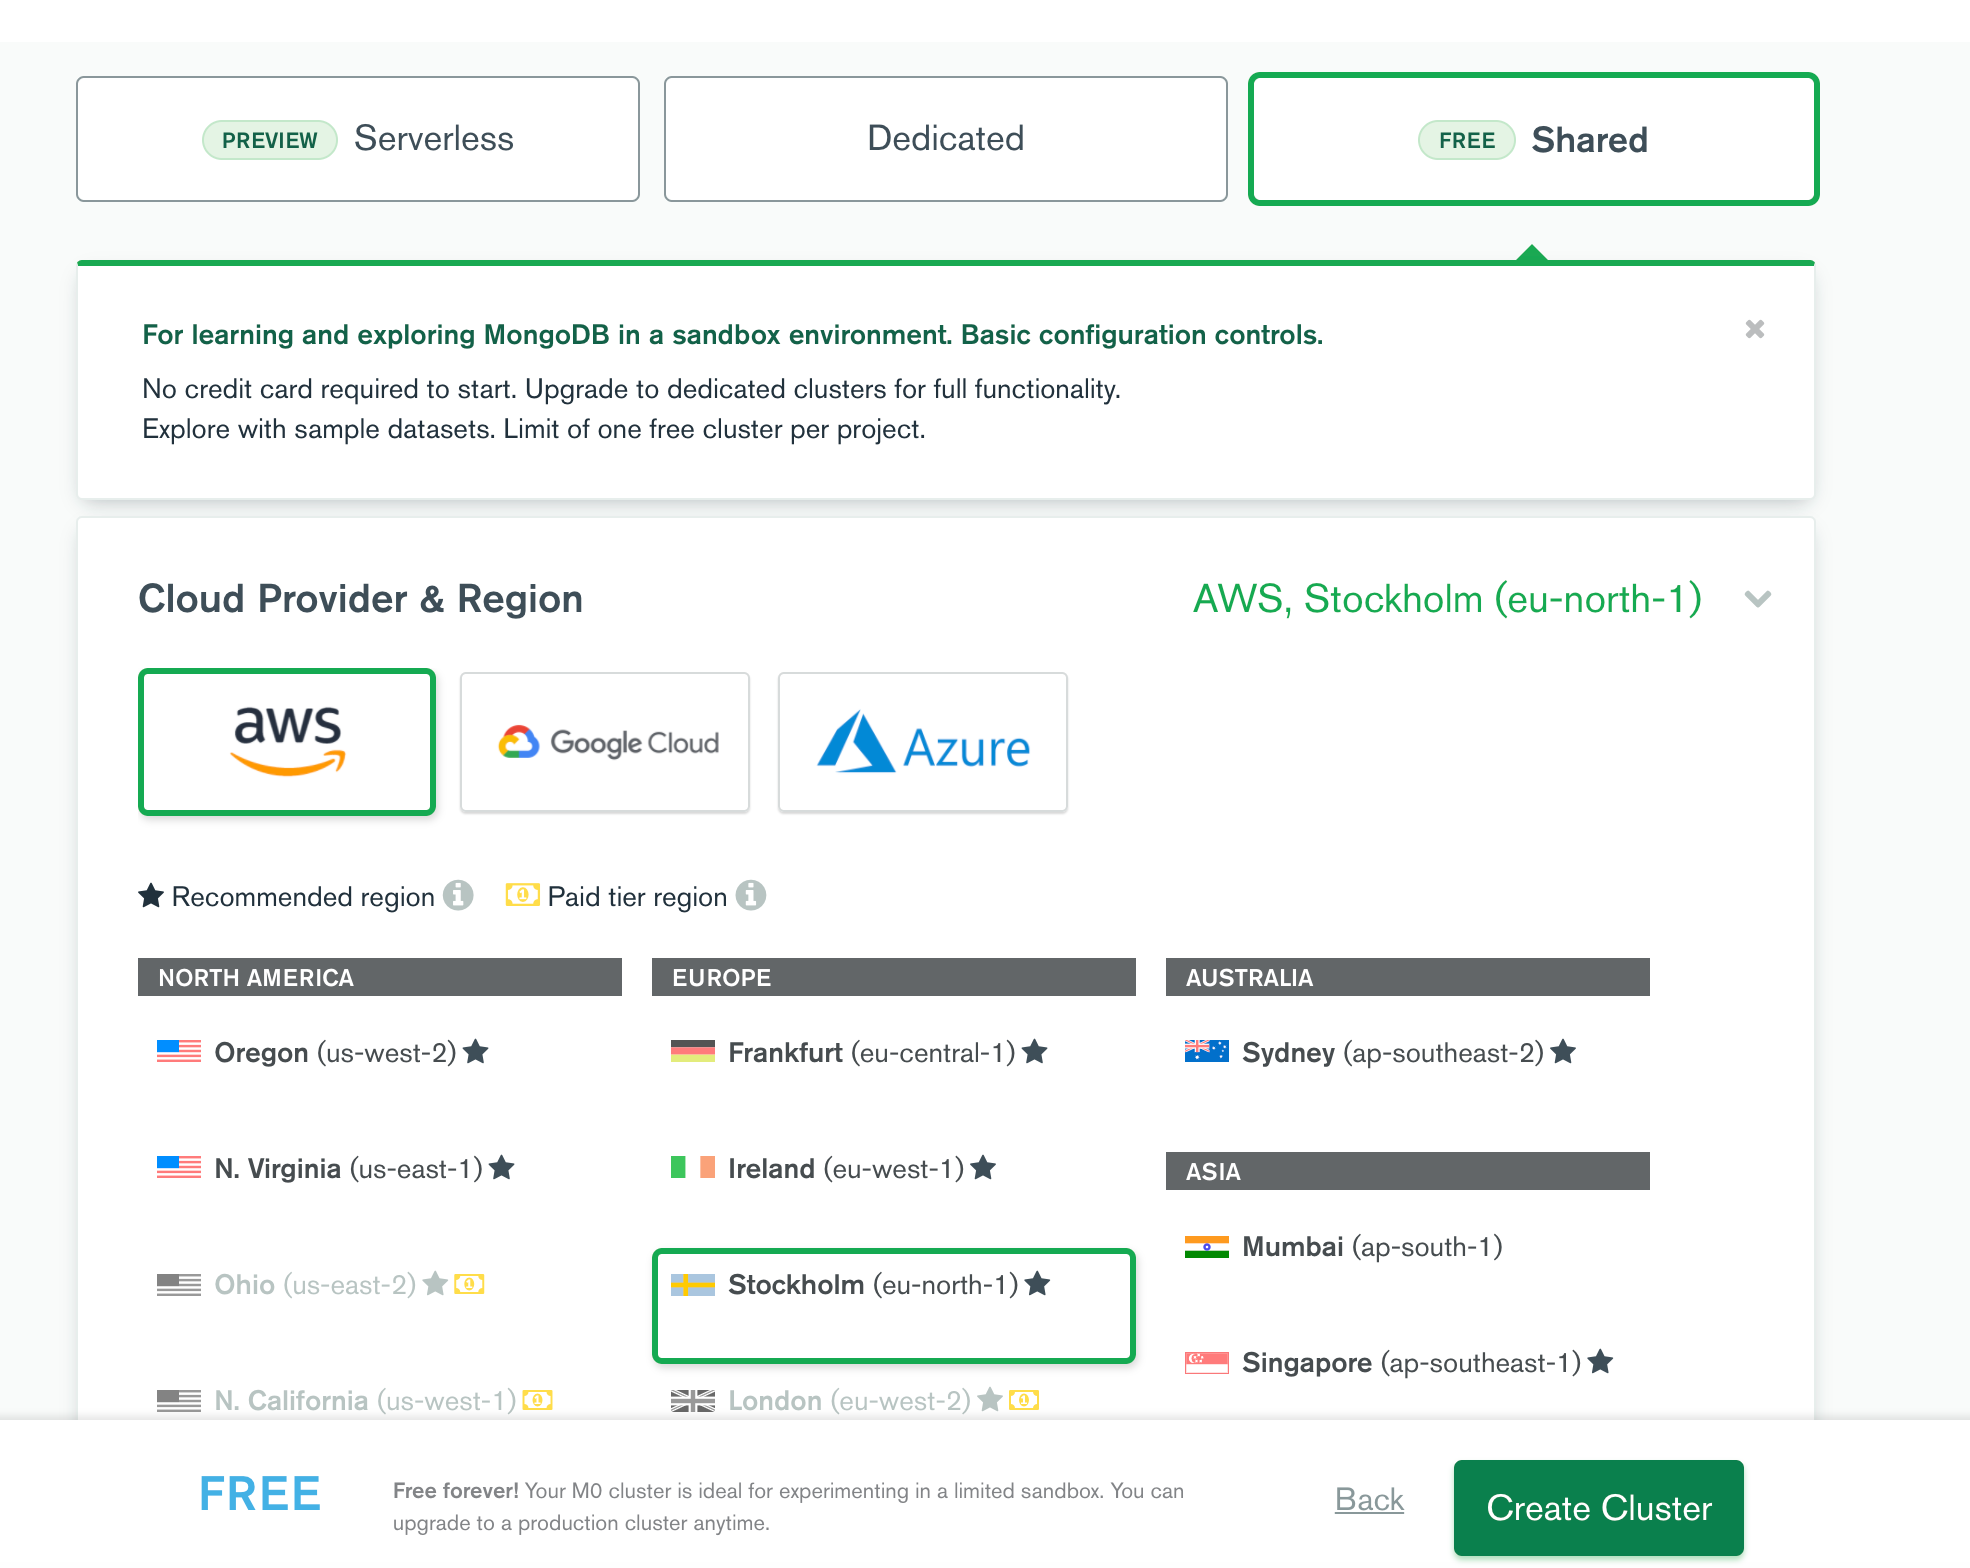
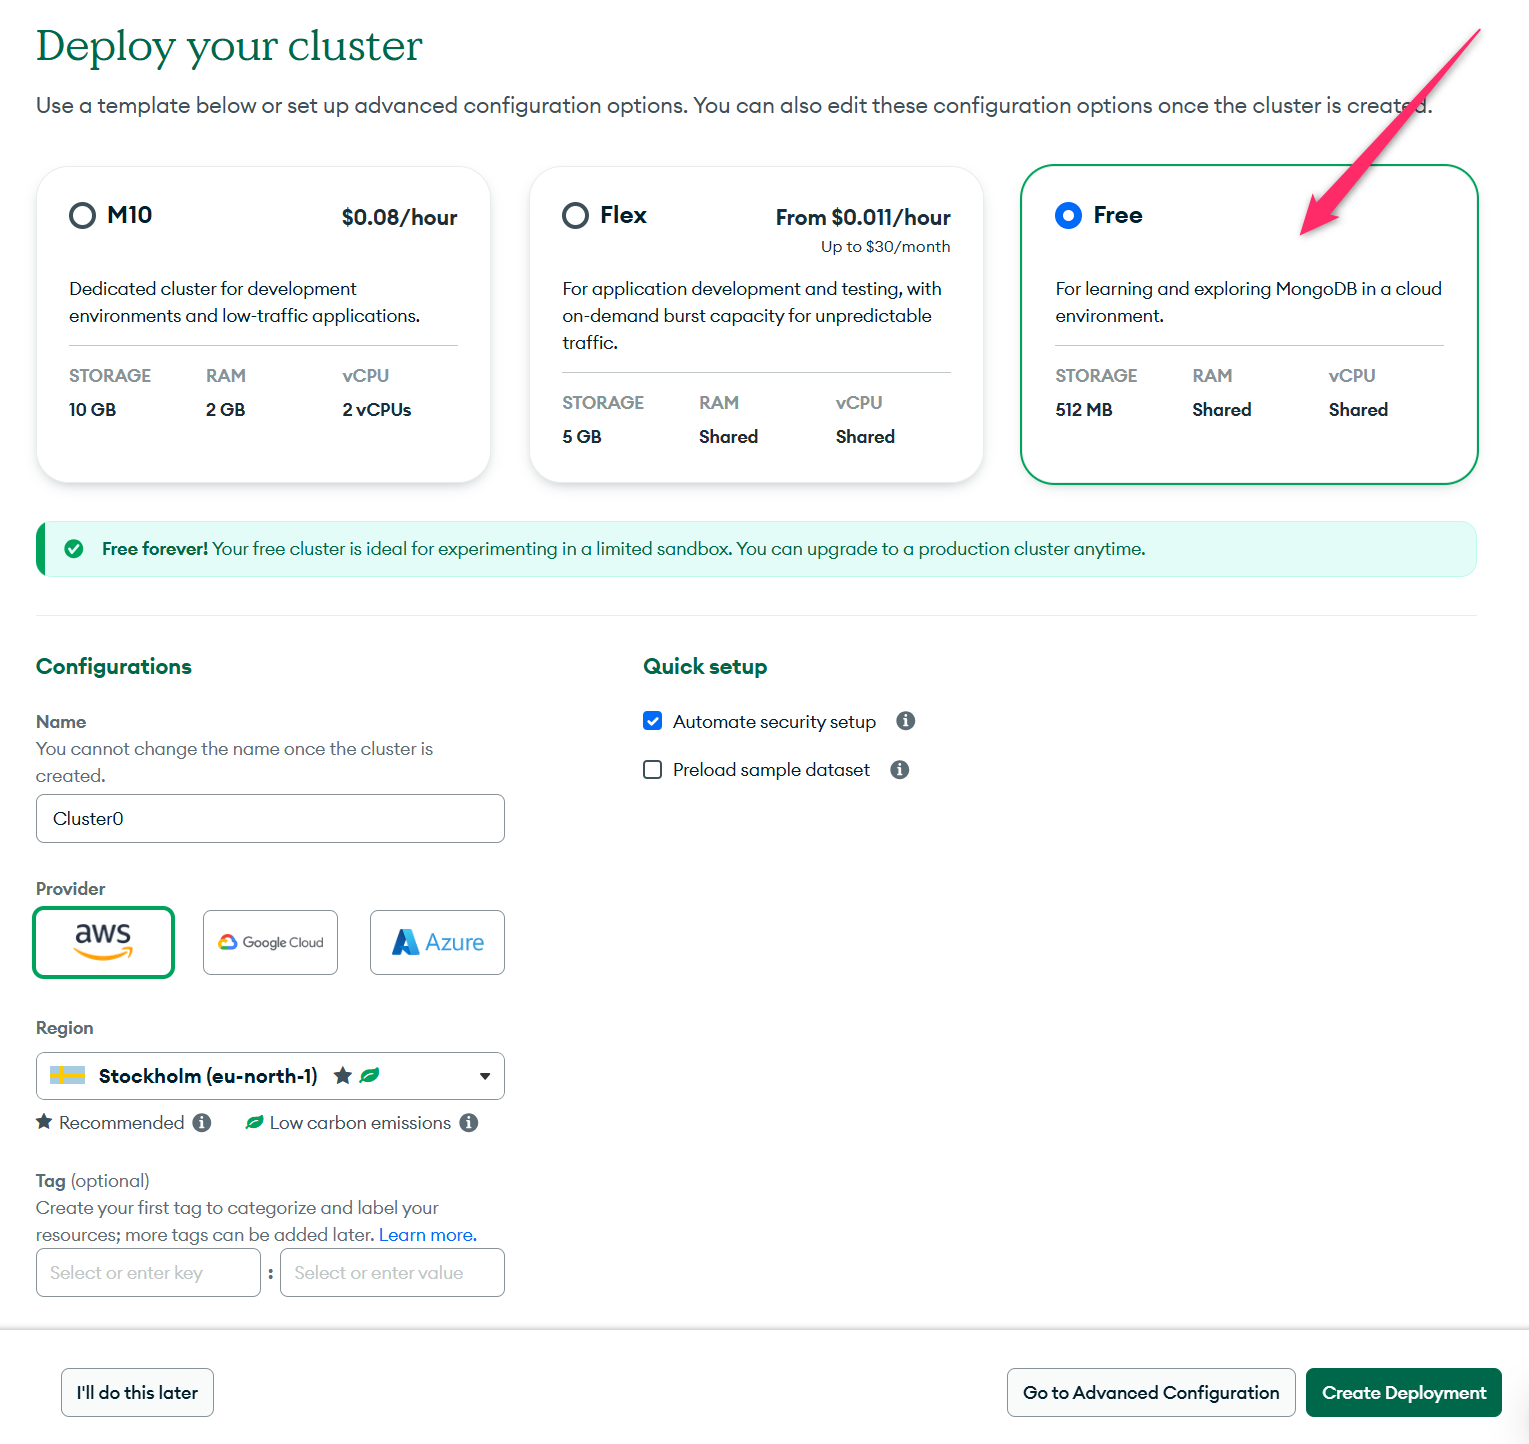
Update mongoDB instructions and pictures in part 3

diff --git a/src/content/3/en/part3c.md b/src/content/3/en/part3c.md
@@ -77,15 +77,11 @@ Read now the chapters on [collections](https://docs.mongodb.com/manual/core/data
 
 Naturally, you can install and run MongoDB on your computer. However, the internet is also full of Mongo database services that you can use. Our preferred MongoDB provider in this course will be [MongoDB Atlas](https://www.mongodb.com/atlas/database).
 
-Once you've created and logged into your account, let us start by selecting the free option:
-
-![mongodb deploy a cloud database free shared](../../images/3/mongo1.png)
-
-Pick the cloud provider and location and create the cluster:
+Once you've created and logged into your account, let's create a new cluster using the button visible on the front page. From the view that opens, select the free plan, determine the cloud provider and data center, and create the cluster:
 
 ![mongodb picking shared, aws and region](../../images/3/mongo2.png)
 
-Let's wait for the cluster to be ready for use. This can take some minutes.
+The provider selected is <i>AWS</i> and the region is <i>Stockholm (eu-north-1)</i>. Note that if you choose something else, your database connection string will be slightly different from this example. Wait for the cluster to be ready, which will take a few minutes.
 
 **NB** do not continue before the cluster is ready.
 
@@ -98,19 +94,19 @@ Next, we have to define the IP addresses that are allowed access to the database
 ![mongodb network access/add ip access list](../../images/3/mongo4.png)
 
 Note: In case the modal menu is different for you, according to MongoDB documentation, adding 0.0.0.0 as an IP allows access from anywhere as well.
-  
-Finally, we are ready to connect to our database. To do this, we need the database connection string, which can be found by first clicking <i>connect</i> and then  choosing <i>Connect to your application</i>:
+
+Finally, we are ready to connect to our database. To do this, we need the database connection string, which can be found by selecting <i>Connect</i> and then <i>Drivers</i> from the view, under the <i>Connect to your application</i> section:
 
 ![mongodb database deployment connect](../../images/3/mongo5.png)
 
 The view displays the <i>MongoDB URI</i>, which is the address of the database that we will supply to the MongoDB client library we will add to our application:
 
-![mongodb connect application](../../images/3/mongo6.png)
+![mongodb connect application](../../images/3/mongo6new.png)
 
 The address looks like this:
 
 ```js
-mongodb+srv://fullstack:thepasswordishere@cluster0.a5qfl.mongodb.net/?retryWrites=true&w=majority
+mongodb+srv://fullstack:thepasswordishere@cluster0.a5qfl.mongodb.net/?retryWrites=true&w=majority&appName=Cluster0
 ```
 
 We are now ready to use the database.
@@ -138,7 +134,7 @@ if (process.argv.length<3) {
 const password = process.argv[2]
 
 const url =
-  `mongodb+srv://fullstack:${password}@cluster0.a5qfl.mongodb.net/?retryWrites=true&w=majority`
+  `mongodb+srv://fullstack:${password}@cluster0.a5qfl.mongodb.net/?retryWrites=true&w=majority&appName=Cluster0`
 
 mongoose.set('strictQuery',false)
 
@@ -186,7 +182,7 @@ Let's destroy the default database <i>test</i> and change the name of the databa
 
 ```js
 const url =
-  `mongodb+srv://fullstack:${password}@cluster0.a5qfl.mongodb.net/noteApp?retryWrites=true&w=majority`
+  `mongodb+srv://fullstack:${password}@cluster0.a5qfl.mongodb.net/noteApp?retryWrites=true&w=majority&appName=Cluster0`
 ```
 
 Let's run our code again:
@@ -368,7 +364,7 @@ const password = process.argv[2]
 
 // DO NOT SAVE YOUR PASSWORD TO GITHUB!!
 const url =
-  `mongodb+srv://fullstack:${password}@cluster0.a5qfl.mongodb.net/?retryWrites=true&w=majority`
+  `mongodb+srv://fullstack:${password}@cluster0.a5qfl.mongodb.net/?retryWrites=true&w=majority&appName=Cluster0`
 
 mongoose.set('strictQuery',false)
 mongoose.connect(url)
@@ -384,7 +380,7 @@ const Note = mongoose.model('Note', noteSchema)
 To avoid authentication issues with the password variable in index.js, we need to create a .env file by running npm install dotenv in the command line. Then, let's create the .env file in the root of your directory. In that file, you should place your URI:
 
 ```
-MONGODB_URI="mongodb+srv://fullstack:password@db.gwcmebp.mongodb.net/?retryWrites=true&w=majority&appName=db"
+MONGODB_URI="mongodb+srv://fullstack:yourpassword@cluster0.a5qfl.mongodb.net/?retryWrites=true&w=majority&appName=Cluster0"
 ```
 Don't forget to replace the string with your details. 
 Once the .env file is ready, remember to add it to your .gitignore file to prevent pushing the password to Git:
@@ -536,7 +532,7 @@ npm install dotenv
 To use the library, we create a <i>.env</i> file at the root of the project. The environment variables are defined inside of the file, and it can look like this:
 
 ```bash
-MONGODB_URI=mongodb+srv://fullstack:thepasswordishere@cluster0.a5qfl.mongodb.net/noteApp?retryWrites=true&w=majority
+MONGODB_URI=mongodb+srv://fullstack:thepasswordishere@cluster0.a5qfl.mongodb.net/noteApp?retryWrites=true&w=majority&appName=Cluster0
 PORT=3001
 ```
 
@@ -579,7 +575,7 @@ However, a [better option](https://community.fly.io/t/clarification-on-environme
 and set the env value from the command line with the command:
 
 ```bash
-fly secrets set MONGODB_URI="mongodb+srv://fullstack:thepasswordishere@cluster0.a5qfl.mongodb.net/noteApp?retryWrites=true&w=majority"
+fly secrets set MONGODB_URI="mongodb+srv://fullstack:thepasswordishere@cluster0.a5qfl.mongodb.net/noteApp?retryWrites=true&w=majority&appName=Cluster0"
 ```
 
 Since the PORT also is defined in our .env it is actually essential to ignore the file in Fly.io since otherwise the app starts in the wrong port.
